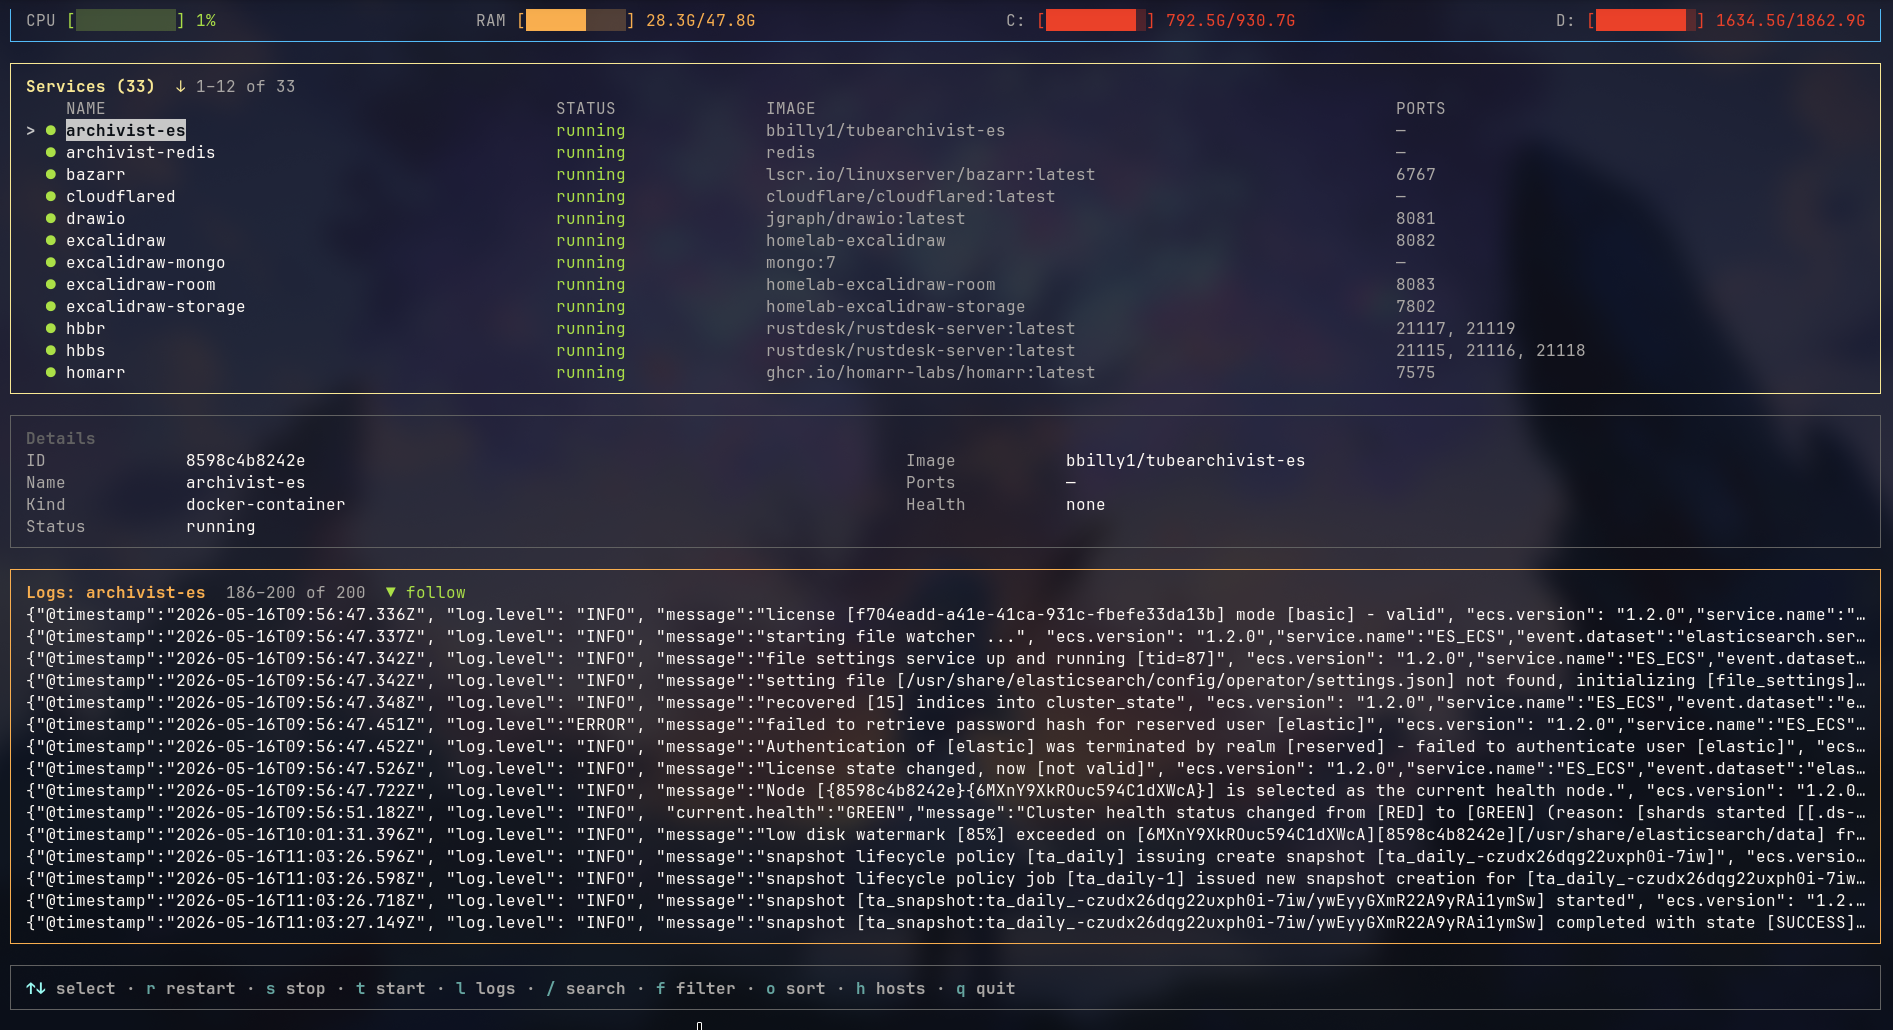
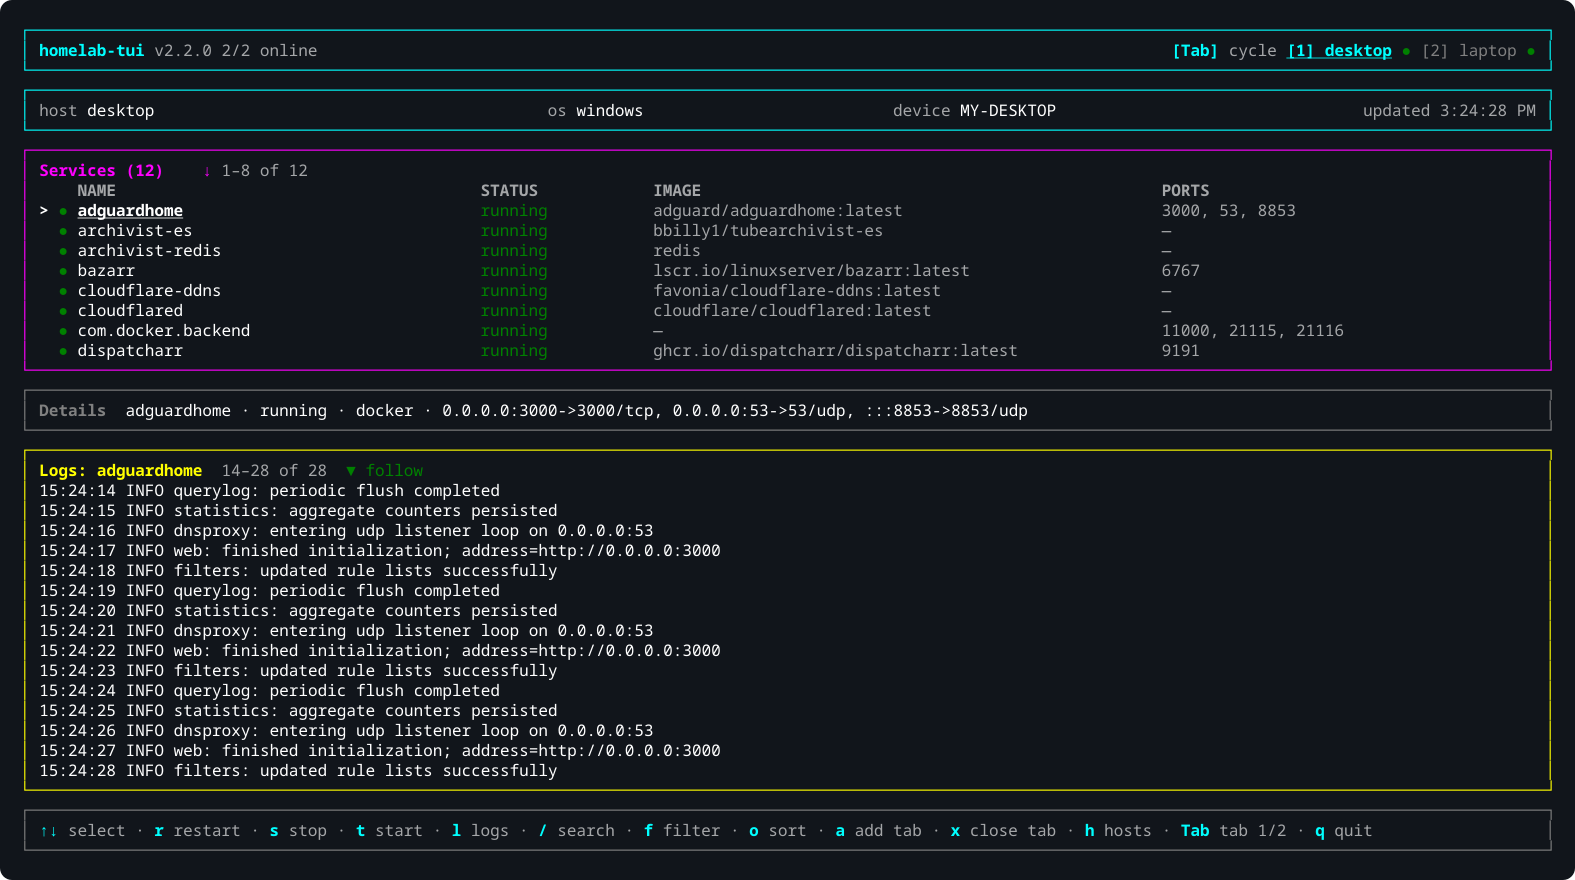
fix: update alt text for logs image to reflect multi-host tab functionality

diff --git a/npm/main/README.md b/npm/main/README.md
@@ -35,7 +35,7 @@
   <a href="https://github.com/ACHRAF-YOUSSEF/homelab-tui/issues">Issues</a>
 </p>
 
-![homelab-tui service monitoring and live logs](assets/logs.png)
+![homelab-tui multi-host tabs with service monitoring and live logs](https://raw.githubusercontent.com/ACHRAF-YOUSSEF/homelab-tui/main/assets/logs.png)
 
 homelab-tui connects to Linux, macOS, and Windows hosts over SSH, discovers Docker containers and native services, displays system metrics and logs, and provides guarded service controls from one terminal.
 

diff --git a/README.md b/README.md
@@ -35,7 +35,7 @@
   <a href="https://github.com/ACHRAF-YOUSSEF/homelab-tui/issues">Issues</a>
 </p>
 
-![homelab-tui service monitoring and live logs](assets/logs.png)
+![homelab-tui multi-host tabs with service monitoring and live logs](assets/logs.png)
 
 homelab-tui connects to Linux, macOS, and Windows hosts over SSH, discovers Docker containers and native services, displays system metrics and logs, and provides guarded service controls from one terminal.
 

diff --git a/docs/fr/index.md b/docs/fr/index.md
@@ -7,7 +7,7 @@ hero:
   tagline: Inspectez les services, les métriques et les journaux via SSH. Contrôlez les conteneurs Docker et les processus natifs sans quitter le clavier.
   image:
     src: /logs.png
-    alt: homelab-tui affichant la surveillance des services et les journaux en direct
+    alt: homelab-tui affichant plusieurs onglets, la surveillance des services et les journaux en direct
   actions:
     - theme: brand
       text: Installer

diff --git a/docs/index.md b/docs/index.md
@@ -7,7 +7,7 @@ hero:
   tagline: Inspect services, metrics, and logs over SSH. Control Docker containers and native processes without leaving the keyboard.
   image:
     src: /logs.png
-    alt: homelab-tui showing service monitoring and live logs
+    alt: homelab-tui showing multi-host tabs, service monitoring, and live logs
   actions:
     - theme: brand
       text: Install
